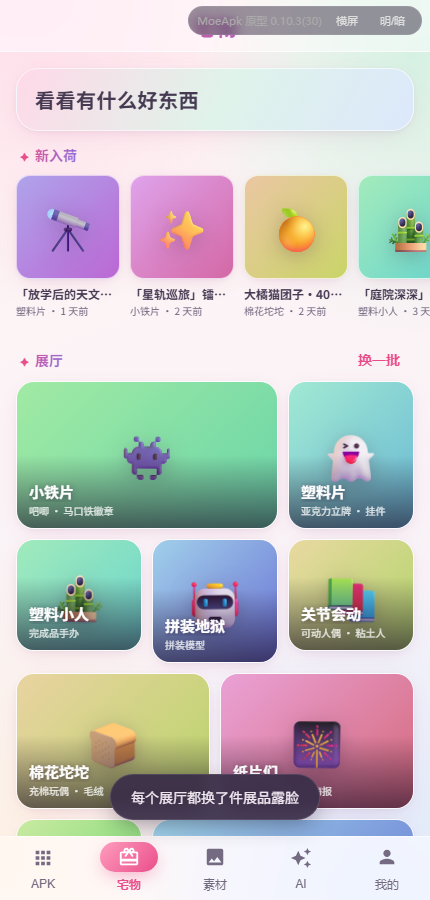
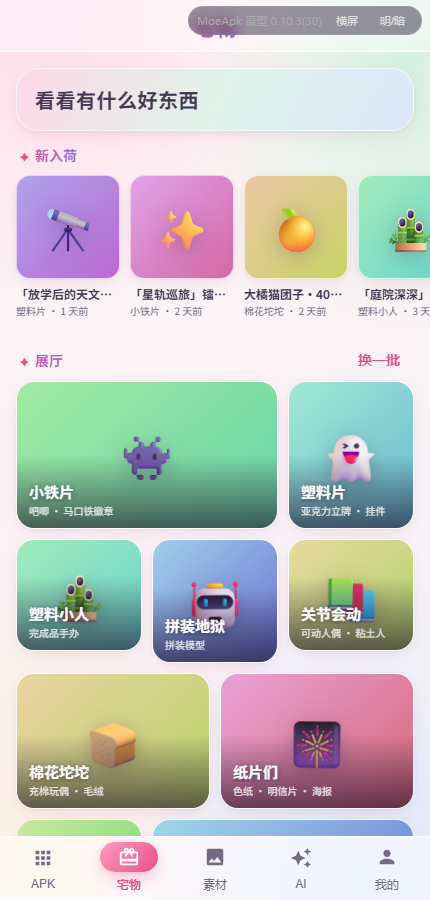
原型: 失效标记——stale 展品保留展示并引导搜同款（详情页 CTA 上方提示条、瀑布卡「或已绝版」淡标记，g08 演示数据）；数据头注释补 stale 契约；design-notes 记定案；资源版本号 v=42；PROTO_COMMIT 更新至 2a6f6bb

Changed region(s): [[0.2419, 0.84, 0.7558, 0.9333]]

diff --git a/index.html b/index.html
@@ -6,7 +6,7 @@
 <title>MoeApk App 原型</title>
 <meta name="theme-color" content="#E94E8A">
 <link rel="icon" type="image/png" href="assets/ic_launcher_fg.png">
-<link rel="stylesheet" href="css/app.css?v=41">
+<link rel="stylesheet" href="css/app.css?v=42">
 </head>
 <body>
 <div class="proto-bar">
@@ -19,30 +19,30 @@
 </div>
 
 <!-- 数据快照（内嵌为全局变量，file:// 直接可开） -->
-<script src="js/data/catalog.js?v=41"></script>
-<script src="js/data/open.js?v=41"></script>
-<script src="js/data/ai.js?v=41"></script>
-<script src="js/data/goods.js?v=41"></script>
+<script src="js/data/catalog.js?v=42"></script>
+<script src="js/data/open.js?v=42"></script>
+<script src="js/data/ai.js?v=42"></script>
+<script src="js/data/goods.js?v=42"></script>
 <!-- 核心层 -->
-<script src="js/icons.js?v=41"></script>
-<script src="js/theme.js?v=41"></script>
-<script src="js/store.js?v=41"></script>
-<script src="js/mock.js?v=41"></script>
-<script src="js/ui.js?v=41"></script>
+<script src="js/icons.js?v=42"></script>
+<script src="js/theme.js?v=42"></script>
+<script src="js/store.js?v=42"></script>
+<script src="js/mock.js?v=42"></script>
+<script src="js/ui.js?v=42"></script>
 <!-- 页面（与 Compose 源文件一一对照，见 README 对照表） -->
-<script src="js/screens/apk.js?v=41"></script>
-<script src="js/screens/goods.js?v=41"></script>
-<script src="js/screens/assets.js?v=41"></script>
-<script src="js/screens/ai.js?v=41"></script>
-<script src="js/screens/ai-llm.js?v=41"></script>
-<script src="js/screens/ai-diffusion.js?v=41"></script>
-<script src="js/screens/ai-tts.js?v=41"></script>
-<script src="js/screens/ai-models.js?v=41"></script>
-<script src="js/screens/download.js?v=41"></script>
-<script src="js/screens/mine.js?v=41"></script>
-<script src="js/screens/pages-account.js?v=41"></script>
-<script src="js/screens/about.js?v=41"></script>
-<script src="js/screens/wallpaper-dialog.js?v=41"></script>
+<script src="js/screens/apk.js?v=42"></script>
+<script src="js/screens/goods.js?v=42"></script>
+<script src="js/screens/assets.js?v=42"></script>
+<script src="js/screens/ai.js?v=42"></script>
+<script src="js/screens/ai-llm.js?v=42"></script>
+<script src="js/screens/ai-diffusion.js?v=42"></script>
+<script src="js/screens/ai-tts.js?v=42"></script>
+<script src="js/screens/ai-models.js?v=42"></script>
+<script src="js/screens/download.js?v=42"></script>
+<script src="js/screens/mine.js?v=42"></script>
+<script src="js/screens/pages-account.js?v=42"></script>
+<script src="js/screens/about.js?v=42"></script>
+<script src="js/screens/wallpaper-dialog.js?v=42"></script>
 <script>
   nav.applyHash();
 </script>

diff --git a/js/screens/goods.js b/js/screens/goods.js
@@ -118,7 +118,8 @@
       (img ? '<img src="' + esc(img) + '" alt="" loading="lazy" onerror="this.remove()">' : '');
     return '<div class="g-fall-card" data-a="goods-open" data-arg="' + g.id + '">' +
       '<div class="g-cover v0" style="--gh:' + (g.hue == null ? 300 : g.hue) + ';aspect-ratio:' + ar + '">' + inner + '</div>' +
-      '<div class="g-fall-body"><div class="g-fall-title">' + esc(g.title) + '</div>' +
+      '<div class="g-fall-body"><div class="g-fall-title">' + esc(g.title) +
+      (g.stale ? '<span class="g-fall-stale">或已绝版</span>' : '') + '</div>' +
       '<div class="g-fall-meta"><span class="g-fall-price">' + fmtPrice(g.price) + '</span>' +
       '<span>' + g.days + ' 天前收录</span></div></div></div>';
   }
@@ -216,6 +217,11 @@
             cover(x) +
             '<div class="g-fresh-name">' + esc(x.title) + '</div>' +
             '<div class="g-fresh-cat">' + fmtPrice(x.price) + '</div></div>').join('') + '</div>';
+      }
+      // 可能已失效（保留展示：用户可能去搜同款；坦诚提示，不拦跳转）
+      if (g.stale) {
+        h += '<div class="g-stale">' + icon('info') +
+          '<span>这件可能已经下架了。若口令或跳转失效，可复制原始标题去淘宝搜同款。</span></div>';
       }
       // 披露（定案：固定于详情页底部，一句小字）
       h += legalLineDetail();

diff --git a/js/data/goods.js b/js/data/goods.js
@@ -9,6 +9,7 @@
 //   note   陈列备注 / 策展短评（AI 生成 + 人工抽查，抽查可关）
 //   price  真实价（非引流最低价）；list 为淘宝划线价（可无）——feed 契约均为字符串，渲染端须兼容
 //   days   收录天数；tpwd 为预生成淘口令（真实环境由服务端 taobao.tbk.tpwd.create 预生成）
+//   stale  可能已失效标记（后台手动刷新时联盟查无此商品）：不下架、保留展示，详情页提示可搜同款
 //   图片一律 emoji + 色相（hue）渐变占位——原型不内嵌任何外部图片。
 window.DB = window.DB || {};
 
@@ -83,7 +84,7 @@ window.DB.GOODS = [
     attrs: ['亚克力', '8cm', '双挂链'], tpwd: '￥Hg93KpQw28￥' },
 
   // ---------- 塑料小人 ----------
-  { id: 'g08', cat: 'figure', title: '「庭院深深」1/7 完成品手办', price: 299, list: 358, emoji: '🎍', hue: 140, days: 3,
+  { id: 'g08', cat: 'figure', title: '「庭院深深」1/7 完成品手办', price: 299, list: 358, emoji: '🎍', hue: 140, days: 3, stale: true,
     note: '这个价位里少见的场景底座，苔藓和石灯都有细节。裙摆渐变涂装没翻车。',
     origin: '庭院深深1/7手办完成品二次元动漫周边模型摆件生日礼物收藏级正版授权',
     attrs: ['PVC 完成品', '1/7', '约 24cm'], tpwd: '￥Cv55NbMz74￥' },

diff --git a/css/app.css b/css/app.css
@@ -1266,6 +1266,17 @@ body, .card, .li, .topbar, .navbar, .chip, .btn, .tbtn, .field-input,
 /* 披露小字（详情页底部固定，合规 + 坦诚路线） */
 .g-legal { font-size: 11px; line-height: 17px; color: var(--on-surface-variant); padding: 16px 6px 4px; opacity: .85; }
 
+/* 可能已失效提示条（详情页，CTA 上方；保留展示 + 引导搜同款） */
+.g-stale {
+  display: flex; align-items: flex-start; gap: 8px;
+  margin-top: 12px; padding: 10px 12px; border-radius: 12px;
+  background: var(--surface-container); border: 1px dashed var(--outline-variant);
+  font-size: 12px; line-height: 18px; color: var(--on-surface-variant);
+}
+.g-stale .ic { width: 16px; height: 16px; flex-shrink: 0; margin-top: 1px; }
+/* 瀑布卡失效淡标记 */
+.g-fall-stale { font-size: 10px; color: var(--on-surface-variant); border: 1px solid var(--outline-variant); border-radius: 6px; padding: 0 4px; margin-left: 6px; }
+
 /* 底部 CTA：sticky 玻璃条（沿用 batch-bar 模式） */
 .g-cta {
   position: sticky; bottom: 0; z-index: 5;

diff --git a/js/screens/about.js b/js/screens/about.js
@@ -3,7 +3,7 @@
 // 原型版本约定：PROTO_COMMIT / PROTO_DATE 记录本原型自身的 git 提交，
 // 由维护者在每次提交前更新为当前 HEAD（提交者无需处理）。
 // App 关于页显示同形态的一行，值为其 UX 同步所依据的原型提交。
-const PROTO_COMMIT = 'e508a96';
+const PROTO_COMMIT = '2a6f6bb';
 const PROTO_DATE = '2026-10-09';
 const PROTO_COMMIT_URL = 'https://github.com/Attect/moeapk-app-ux/commit/';
 

diff --git a/docs/design-notes.md b/docs/design-notes.md
@@ -72,6 +72,8 @@
 
 **修订（2026-10-09 第二轮）**：⑤ 「换一批」语义定案——展厅墙**布局以后台配置为准**（feed `home.mosaic` 下发槽位顺序/跨列/高度，原型对应 `DB.GOODS_HOME`；`fresh_count=0` 隐藏新入荷、空厅槽位跳过），换一批**不打乱布局、只在每个展厅内重抽封面展品**（反复刷有新的脸面，布局不晕车）；⑥ `fmtPrice` 兼容 feed 字符串价格契约（演示数据是数字、feed 是字符串，直接 `%`/`.toFixed` 会崩）；⑦ 详情页 pager 上限 3→5，对齐后端多图（pics ≤5，AI 选封面排首）。
 
+**失效标记（2026-10-09 定案）**：商品失效**不下架、保留展示**（用户可能去搜同款）——后台手动「刷新价格/有效性」时联盟查无此商品则标 `stale` 随 feed 下发；详情页 CTA 上方提示「可复制原始标题去淘宝搜同款」，瀑布卡淡标记「或已绝版」。价格漂移（到手价较收录价 ±30%）仅作后台徽标提醒复核，不下发 App。不做定时自动刷新。
+
 ### 第十六轮（2026-09-30，设置面板可隐藏 + 壁纸被系统重置后一步恢复）
 
 **起因**（真机反馈两连）：
